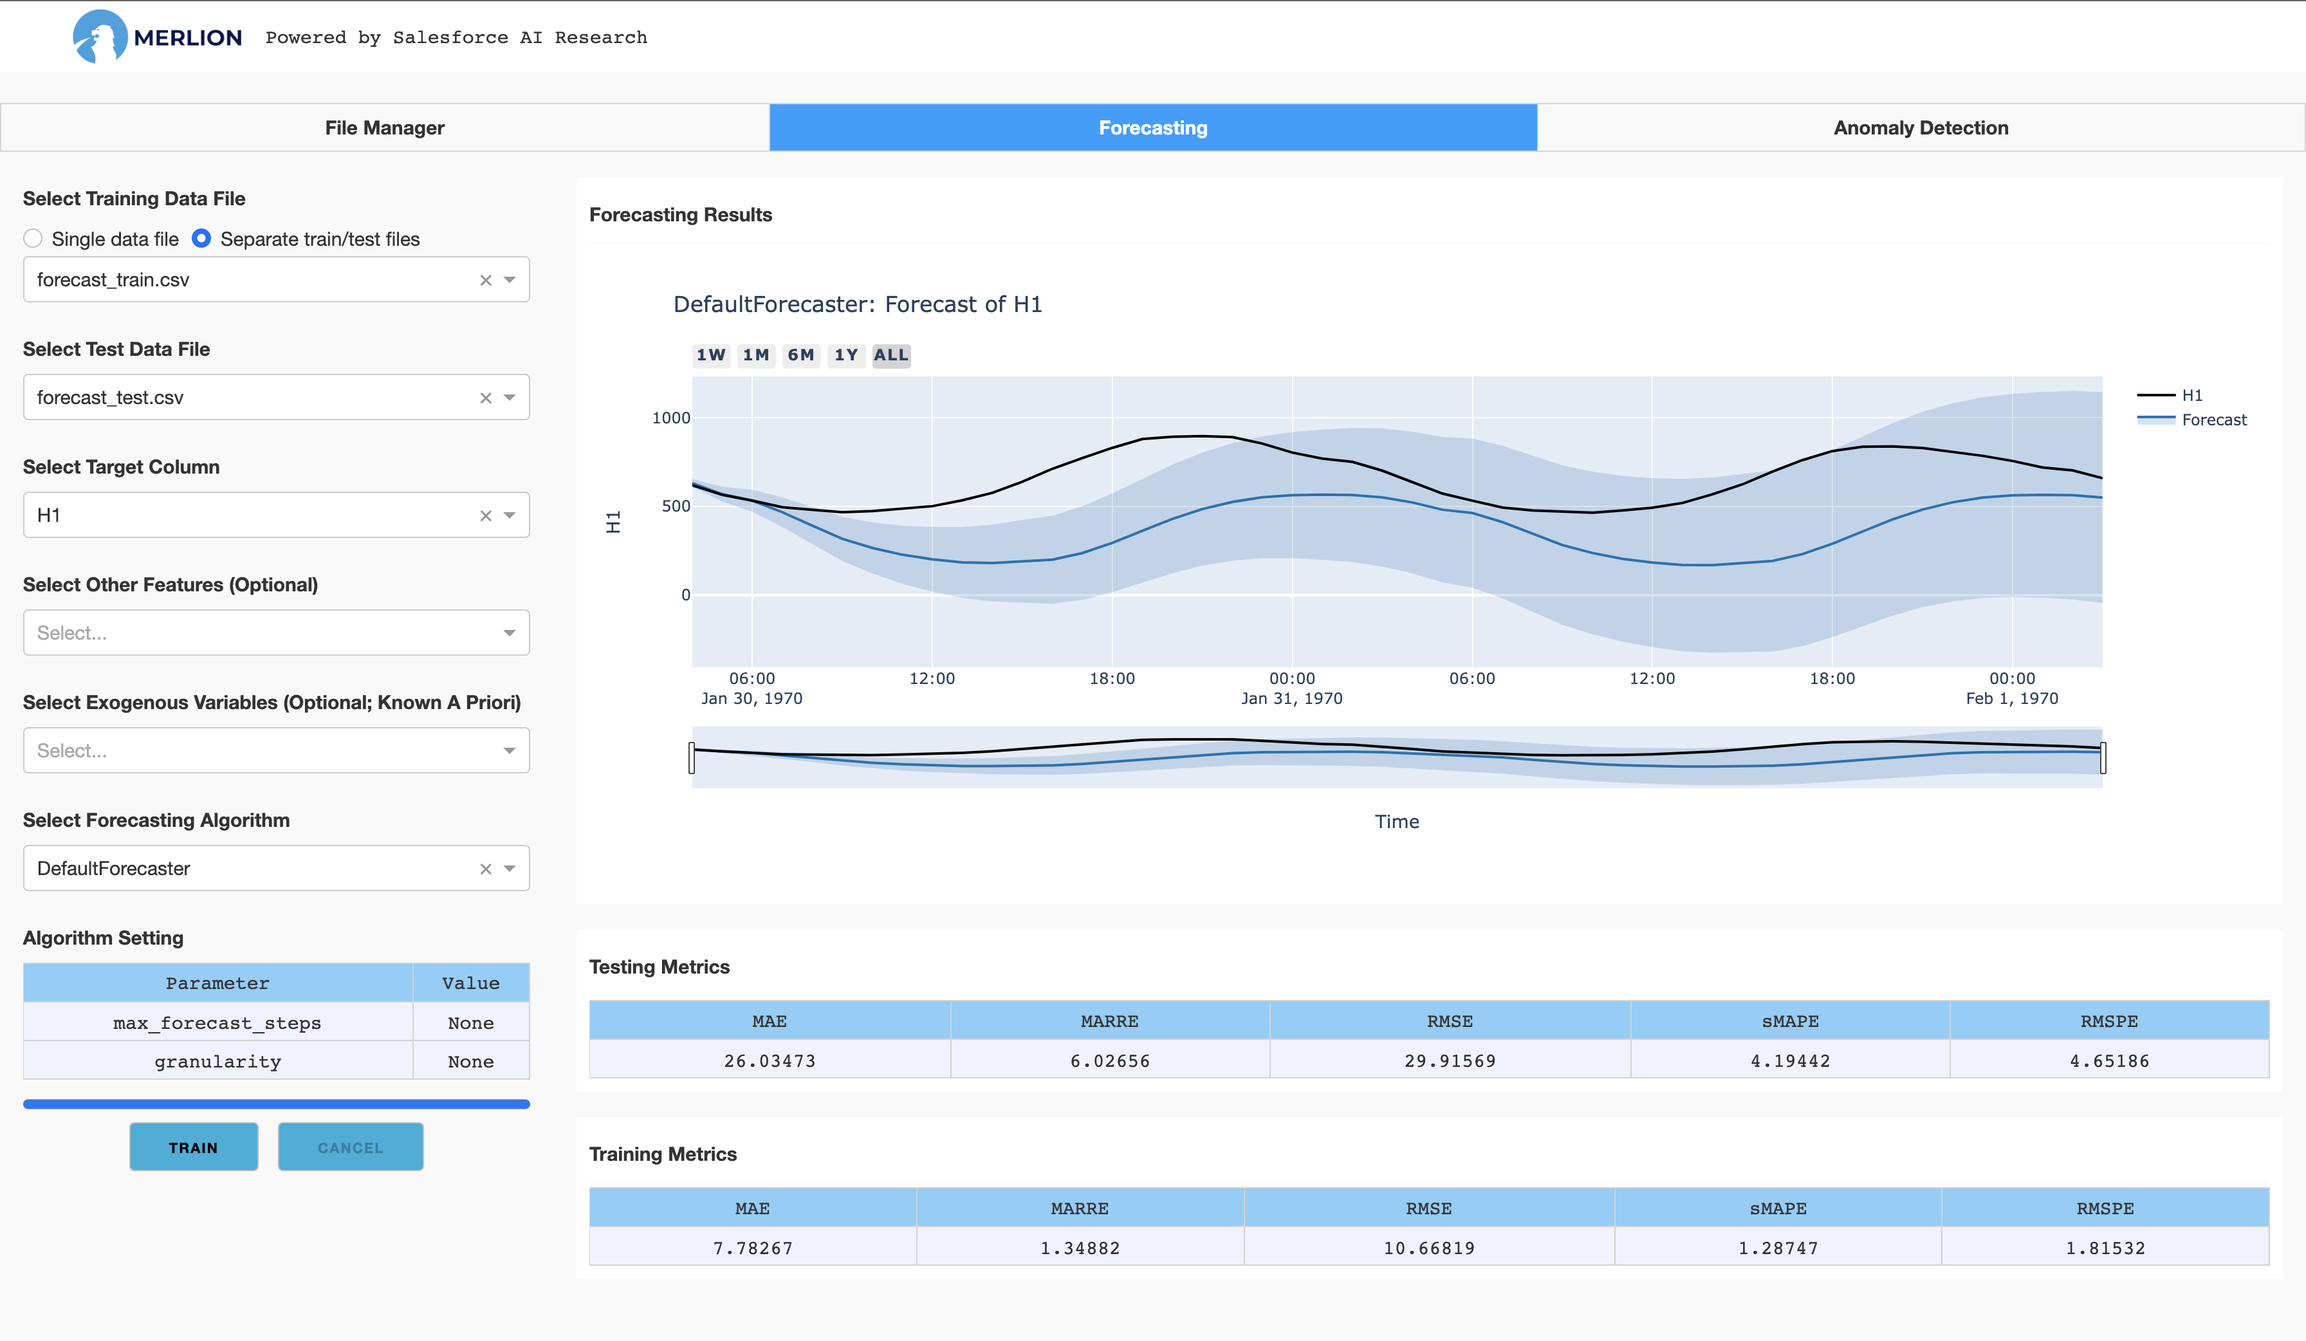
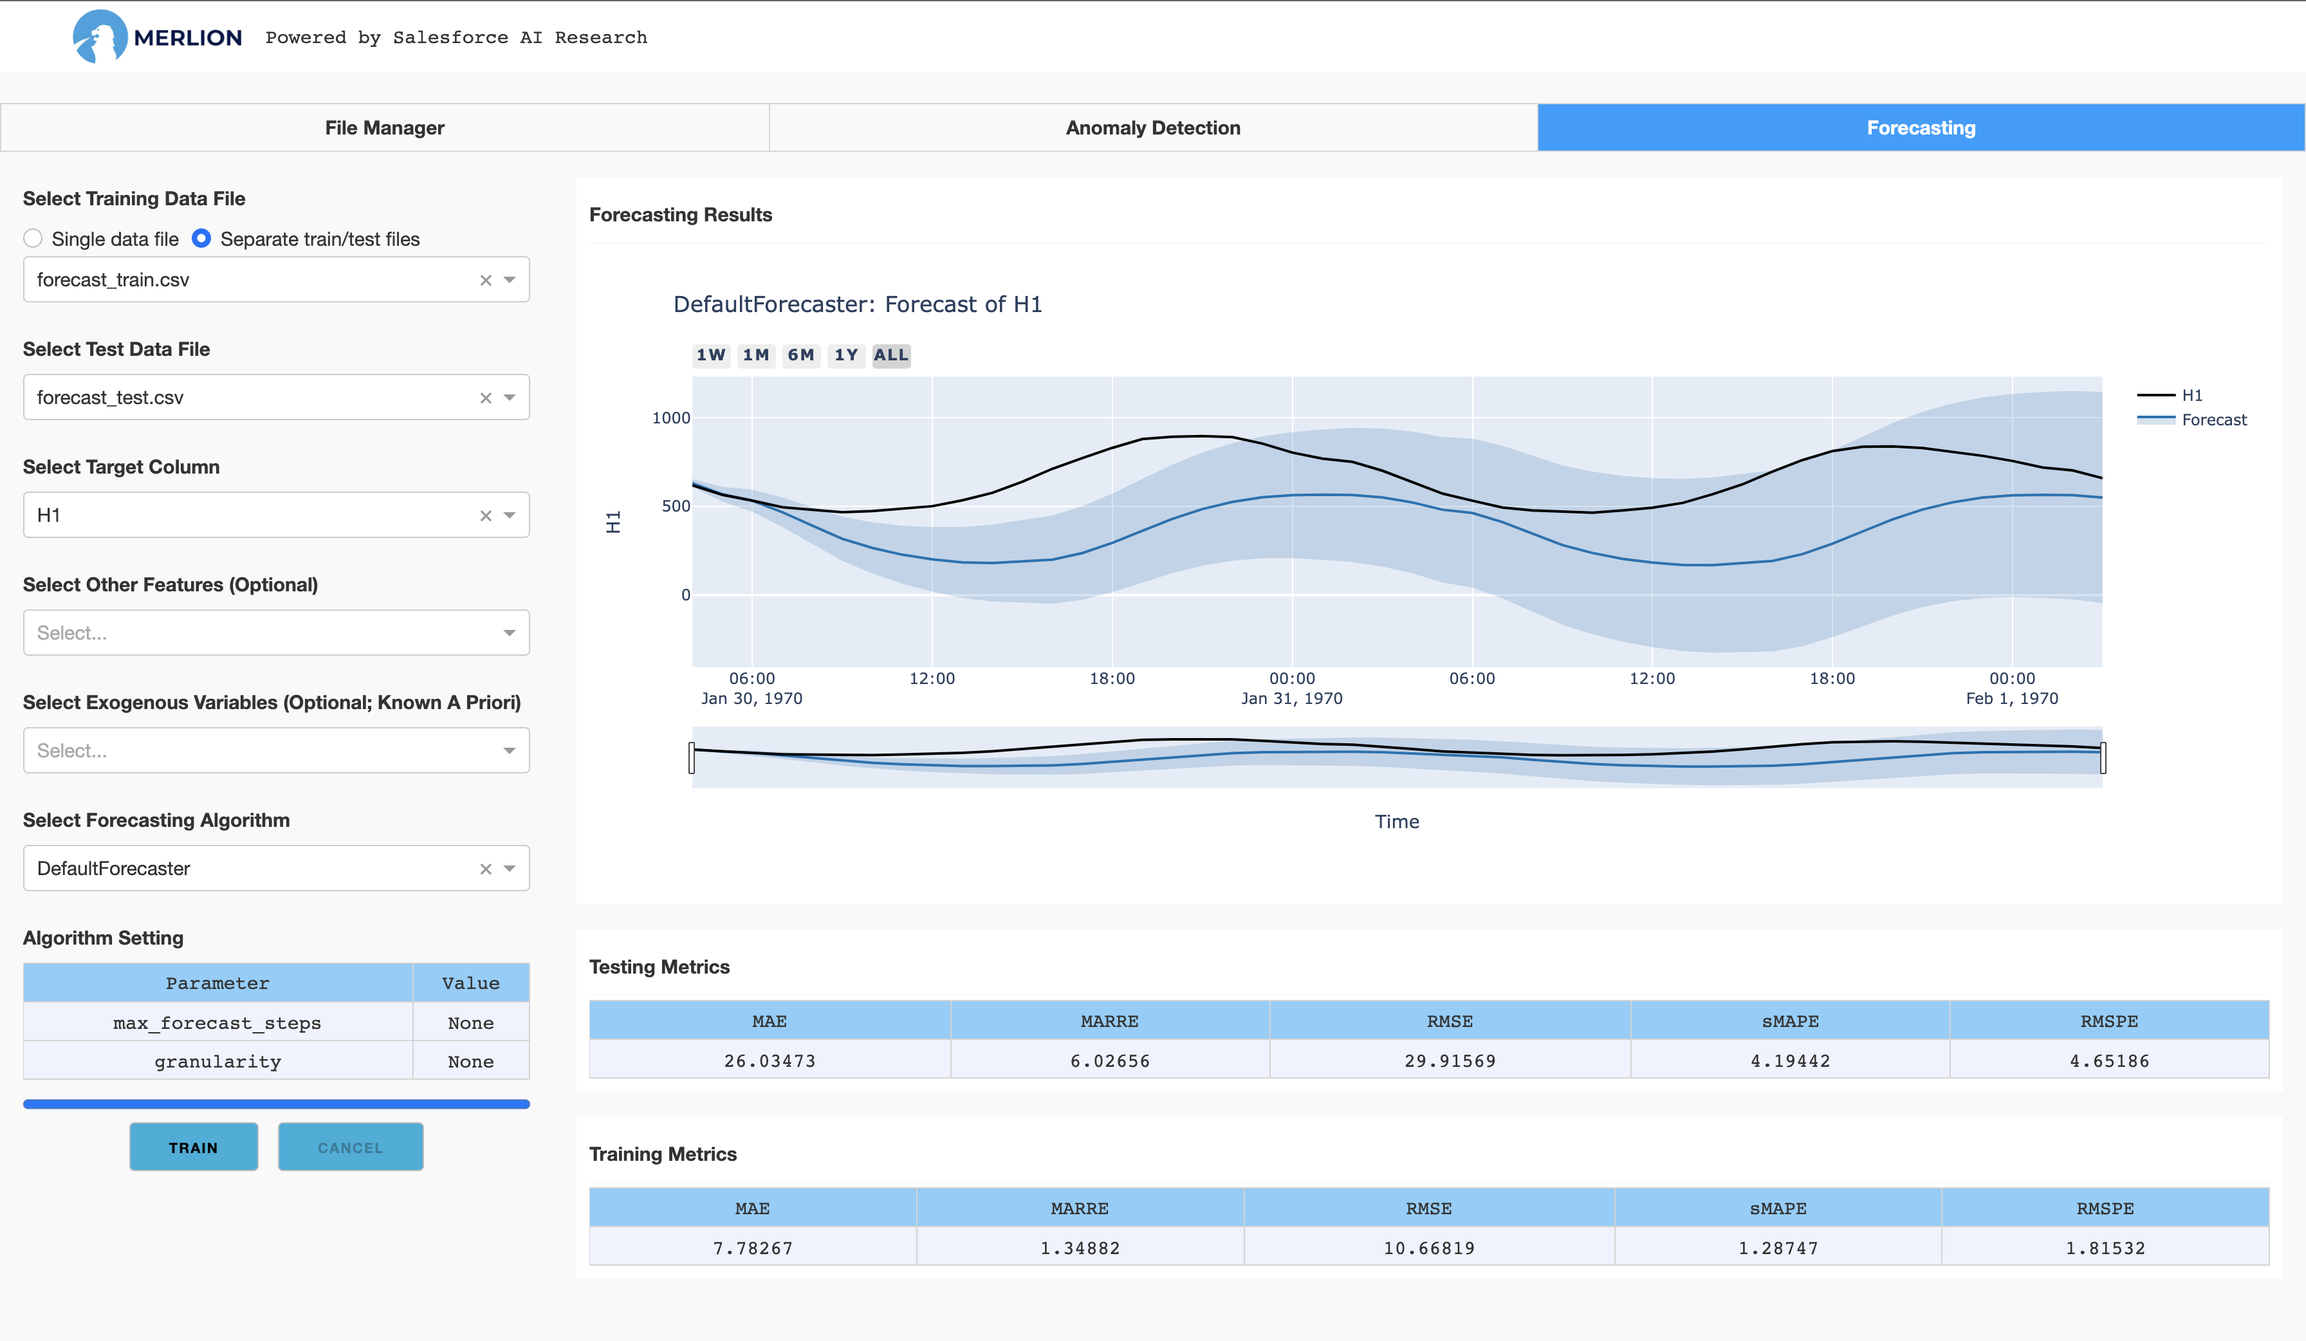
Reorder forecast & anomaly in the dashboard.

Changed region(s): [[0.3125, 0.0624, 1.0, 0.1248]]

diff --git a/merlion/dashboard/server.py b/merlion/dashboard/server.py
@@ -32,8 +32,8 @@ app.layout = html.Div(
         dcc.Location(id="url", refresh=False),
         html.Div(id="page-content"),
         dcc.Store(id="data-state"),
-        dcc.Store(id="forecasting-state"),
         dcc.Store(id="anomaly-state"),
+        dcc.Store(id="forecasting-state"),
     ]
 )
 server = app.server
@@ -47,9 +47,9 @@ def _display_page(pathname):
 @app.callback(
     Output("plots", "children"),
     Input("tabs", "value"),
-    [State("data-state", "data"), State("forecasting-state", "data"), State("anomaly-state", "data")],
+    [State("data-state", "data"), State("anomaly-state", "data"), State("forecasting-state", "data")],
 )
-def _click_tab(tab, data_state, forecasting_state, anomaly_state):
+def _click_tab(tab, data_state, anomaly_state, forecasting_state):
     if tab == "file-manager":
         return create_data_layout()
     elif tab == "forecasting":

diff --git a/merlion/dashboard/pages/data.py b/merlion/dashboard/pages/data.py
@@ -56,7 +56,7 @@ def create_control_panel() -> html.Div:
             html.P("Upload Time Series Data File"),
             dcc.Upload(
                 id="upload-data",
-                children=html.Div(["Drag and Drop or Select a File"]),
+                children=html.Div(["Drag & Drop or Select a File"]),
                 style={
                     "height": "50px",
                     "lineHeight": "50px",
@@ -75,7 +75,7 @@ def create_control_panel() -> html.Div:
             html.P("Overall Stats"),
             html.Div(id="data-stats-table", children=[create_metric_stats_table()]),
             html.Br(),
-            html.P("Metric/Variable Stats"),
+            html.P("Per-Variable Stats"),
             html.Div(
                 id="select-column-parent",
                 children=[dcc.Dropdown(id="select-column", options=[], style={"width": "100%"})],

diff --git a/merlion/dashboard/utils/layout.py b/merlion/dashboard/utils/layout.py
@@ -38,16 +38,16 @@ def create_layout() -> html.Div:
         dcc.Tab(label="File Manager", value="file-manager", style=tab_style, selected_style=tab_selected_style)
     )
     values.append("file-manager")
-    # Forecasting tab
-    children.append(
-        dcc.Tab(label="Forecasting", value="forecasting", style=tab_style, selected_style=tab_selected_style)
-    )
-    values.append("forecasting")
     # Anomaly detection tab
     children.append(
         dcc.Tab(label="Anomaly Detection", value="anomaly", style=tab_style, selected_style=tab_selected_style)
     )
     values.append("anomaly")
+    # Forecasting tab
+    children.append(
+        dcc.Tab(label="Forecasting", value="forecasting", style=tab_style, selected_style=tab_selected_style)
+    )
+    values.append("forecasting")
 
     layout = html.Div(
         id="app-content",

diff --git a/merlion/dashboard/models/utils.py b/merlion/dashboard/models/utils.py
@@ -15,13 +15,8 @@ class DataMixin:
     def load_data(self, file_path, nrows=None):
         if nrows is None:
             self.logger.info("Loading the time series...")
-        df = pd.read_csv(file_path, nrows=nrows)
-        if df.dtypes[df.columns[0]] in [np.int32, np.int64]:
-            df = df.set_index(df.columns[0])
-            df.index = pd.to_datetime(df.index.values, unit="ms")
-        else:
-            df = df.set_index(df.columns[0])
-            df.index = pd.to_datetime(df.index.values)
+        df = pd.read_csv(file_path, nrows=nrows, index_col=0)
+        df.index = pd.to_datetime(df.index, unit="ms" if df.dtypes[df.columns[0]] in [np.int32, np.int64] else None)
         return df
 
 

diff --git a/merlion/dashboard/callbacks/data.py b/merlion/dashboard/callbacks/data.py
@@ -85,8 +85,7 @@ def click_run(btn_click, modal_close, filename, data):
                 modal_is_open = True
                 modal_content = str(error)
 
-    return stats_table, json.dumps(stats, cls=DefaultEncoder), \
-           data_table, data_figure, modal_is_open, modal_content
+    return stats_table, json.dumps(stats, cls=DefaultEncoder), data_table, data_figure, modal_is_open, modal_content
 
 
 @callback(Output("select-column", "options"), Input("select-column-parent", "n_clicks"), State("data-state", "data"))

diff --git a/merlion/dashboard/pages/anomaly.py b/merlion/dashboard/pages/anomaly.py
@@ -102,6 +102,7 @@ def create_control_panel() -> html.Div:
                 children=[dcc.Dropdown(id="anomaly-select-threshold", options=[], style={"width": "100%"})],
             ),
             html.Div(id="anomaly-threshold-param-table", children=[create_param_table(height=80)]),
+            html.Br(),
             html.Div(
                 children=[html.Button(id="anomaly-test-btn", children="Update Threshold", n_clicks=0)],
                 style={"textAlign": "center"},

diff --git a/merlion/dashboard/utils/plot.py b/merlion/dashboard/utils/plot.py
@@ -18,7 +18,7 @@ def data_table(df, n=1000, page_size=10):
         data = []
         for i in range(df.shape[0]):
             d = {c: v for c, v in zip(df.columns, df.values[i])}
-            d.update({"Index": df.index.values[i]})
+            d.update({"Index": df.index[i]})
             data.append(d)
 
         table = dash_table.DataTable(

diff --git a/docs/source/merlion.dashboard.rst b/docs/source/merlion.dashboard.rst
@@ -16,60 +16,63 @@ the time series data, or download a particular trained model:
 
 .. image:: _static/dashboard_file.png
 
-You can click "Drag and Drop" to upload the file to the ``merlion`` folder (our app is designed to support
+You can click "Drag & Drop" to upload the file to the ``merlion`` folder (our app is designed to support
 docker deployment, so it doesn't allow to open a local file directly). If you use the app on a local
 machine, you can also copy the data to ``~/merlion/data`` directly. The supported data file is in
-the csv format, where the first column should be either Unix timestamps in unit ms or datetimes in a
-string format (e.g., "1970-01-01 00:00:00"). The other columns are the metrics/variables.
+the csv format, where the first column should be either integer Unix timestamps in milliseconds, or datetimes in a
+string format (e.g., "1970-01-01 00:00:00"). The other columns are the features/variables.
 
 Clicking the load button will load the dataset and show the time series figure on the right hand side.
 It will also show some basic statistics, e.g., time series length, mean/std for each variable.
-If there are trained models, you can select the model you want to download and click the download
-button. The model and its configuration file will be compressed into a zip file.
+If you have already trained a model using the dashboard, you can select the model you want to download
+and click the download button. The model and its configuration file will be compressed into a zip file.
 
-The second tab is used to train a time series forecasting model supported in Merlion:
-
-.. image:: _static/dashboard_forecast.png
-
-The app provides
-full supports for these models where you can choose different algorithms and set particular parameters
-as your need. To train a model, you need:
-
-- **Select the dataset**: You can select a single training dataset if there is no test dataset, and then choose
-  a train/test split fraction for splitting this dataset into training and test dataset for evaluation.
-  If you have the test dataset, you can choose "Separate train/test files" and select the test dataset,
-  and then the model will be trained with the training dataset and evaluated with the separate test dataset.
-- **Set the target column**: You need to set the target column for forecasting (required) and the exogenous
-  columns for exogenous regression (optional).
-- **Select a forecasting algorithm**: Finally, you need to choose a forecasting algorithm such as
-  Arima, AutoETS, and then set the training parameters if the default parameters do not work well.
-
-The training procedure begins after clicking the train button. It may take some time to finish model
-training. After the model is training, the model files will be saved in the folder ``~/merlion/models/algorithm_name``.
-The figure on the right hand side shows the forecasting results on the test dataset, and the tables
-show the training and testing performance metrics.
-
-The third tab is used to train a time series anomaly detection model:
+The second tab is used to train a time series anomaly detection model:
 
 .. image:: _static/dashboard_anomaly.png
 
-How to train an anomaly detection model is similar as training a forecasting model, i.e.,
+The app provides full support for these models, where you can choose different algorithms and set particular parameters
+according to your needs. To train a model, you need to:
 
 - **Select the dataset**: You can select a single training dataset if there is no test dataset, and then choose
   a train/test split fraction for splitting this dataset into training and test dataset for evaluation.
   If you have the test dataset, you can choose "Separate train/test files" and select the test dataset,
   and then the model will be trained with the training dataset and evaluated with the separate test dataset.
-- **Set the feature columns**: Merlion supports both univariate time series anomaly detection as well
-  as multivariate time series anomaly detection, so that you can choose one or multiple columns to
-  train an anomaly detection model.
+  The screenshot above uses a single data file, where we use the first 15% for training and the last 85% for testing.
+- **Set the feature columns**: Merlion supports both univariate and multivariate time series anomaly detection,
+  so you can choose one or more features on which to train an anomaly detection model.
 - **Set the label column**: If the dataset has a label column, you can set it for evaluation. Otherwise,
   ignore this setting.
 - **Select an anomaly detection algorithm**: You need to choose an anomaly detection algorithm such as
-  IsolationForest, and then set the training parameters if the default parameters do not work well.
+  IsolationForest. You may modify the model's hyperparameters if the default values do not work well.
 - **Set threshold parameters**: You can also test different settings for the detection threshold to
-  determine which value is better for your specific application.
+  determine which value is better for your specific application. Note that updating the threshold will
+  not re-train the entire model; it will simply change the post-processing applied by the trained model.
 
 The training procedure begins after clicking the train button, and the trained model is saved in the
 folder ``~/merlion/models/algorithm_name``. The figure on the right hand side shows the detection results
 on the test dataset, and the tables show the training and testing performance metrics if you set the
 label column.
+
+The third tab is used to train a time series forecasting model supported in Merlion:
+
+.. image:: _static/dashboard_forecast.png
+
+The app provides full support for these models, where you can choose different algorithms and set particular parameters
+according to your needs. To train a model, you need to:
+
+- **Select the dataset**: You can select a single training dataset if there is no test dataset, and then choose
+  a train/test split fraction for splitting this dataset into training and test dataset for evaluation.
+  If you have the test dataset, you can choose "Separate train/test files" and select the test dataset,
+  and then the model will be trained with the training dataset and evaluated with the separate test dataset.
+  The screenshot above uses separate train/test files.
+- **Set the target column**: You need to set the target column whose value you wish to forecast (required),
+  any additional features to use for `multivariate forecasting <tutorials/forecast/2_ForecastMultivariate>` (optional),
+  and the `exogenous variables <tutorials/forecast/3_ForecastExogenous>` whose values are known a priori (optional).
+- **Select a forecasting algorithm**: Finally, you need to choose a forecasting algorithm such as
+  Arima, AutoETS. You may modify the model's hyperparameters if the default values do not work well.
+
+The training procedure begins after clicking the train button. It may take some time to finish model
+training. After the model is trained, the model files will be saved in the folder ``~/merlion/models/algorithm_name``.
+The figure on the right hand side shows the forecasting results on the test dataset, and the tables
+show the training and testing performance metrics.

diff --git a/README.md b/README.md
@@ -108,10 +108,12 @@ and presents experimental results on time series anomaly detection & forecasting
 time series.
 
 ## Getting Started
-The easiest way to get started is to install Merlion with the optional `dashboard` dependency 
-(i.e. call ``pip install salesforce-merlion[dashboard]``), and call ``python -m merlion.dashboard`` from
-the command line to start up the GUI [dashboard](https://opensource.salesforce.com/Merlion/merlion.dashboard.html).
-This dashboard provides a great way to easily experiment with many models on your own custom dataset.
+The easiest way to get started is to use the GUI web-based
+[dashboard](https://opensource.salesforce.com/Merlion/merlion.dashboard.html).
+This dashboard provides a great way to quickly experiment with many models on your own custom datasets.
+To use it, install Merlion with the optional ``dashboard`` dependency (i.e.
+``pip install salesforce-merlion[dashboard]``), and call ``python -m merlion.dashboard`` from the command line.
+You can view the dashboard at http://localhost:8050.
 Below, we show some screenshots of the dashboard for both anomaly detection and forecasting.
 
 ![anomaly dashboard](https://github.com/salesforce/Merlion/raw/main/docs/source/_static/dashboard_anomaly.png)
@@ -122,6 +124,7 @@ To help you get started with using Merlion in your own code, we provide below so
 default models for both anomaly detection and forecasting.
 
 ### Anomaly Detection
+Here, we show the code to replicate the results from the anomaly detection dashboard above.
 We begin by importing Merlion’s `TimeSeries` class and the data loader for the Numenta Anomaly Benchmark `NAB`.
 We can then divide a specific time series from this dataset into training and testing splits.
 
@@ -175,6 +178,7 @@ Precision: 0.6667, Recall: 0.6667, F1: 0.6667
 Mean Time To Detect: 1 days 10:30:00
 ```
 ### Forecasting
+Here, we show the code to replicate the results from the forecasting dashboard above.
 We begin by importing Merlion’s `TimeSeries` class and the data loader for the `M4` dataset. We can then divide a
 specific time series from this dataset into training and testing splits.
 

diff --git a/docs/source/index.rst b/docs/source/index.rst
@@ -59,10 +59,11 @@ Note the following external dependencies:
 
 Getting Started
 ---------------
-The easiest way to get started is to install Merlion with the optional ``dashboard`` dependency
-(i.e. call ``pip install salesforce-merlion[dashboard]``), and call ``python -m merlion.dashboard`` from
-the command line to start up the GUI :py:mod:`dashboard <merlion.dashboard>`.
-This dashboard provides a great way to easily experiment with many models on your own custom datasets.
+The easiest way to get started is to use the GUI web-based `dashboard <merlion.dashboard>`.
+This dashboard provides a great way to quickly experiment with many models on your own custom datasets.
+To use it, install Merlion with the optional ``dashboard`` dependency (i.e.
+``pip install salesforce-merlion[dashboard]``), and call ``python -m merlion.dashboard`` from the command line.
+You can view the dashboard at http://localhost:8050.
 
 For code resources, we recommend the linked tutorials on `anomaly detection <tutorials/anomaly/0_AnomalyIntro>`
 and `forecasting <tutorials/forecast/0_ForecastIntro>`. After that, you should read in more detail about Merlion's
